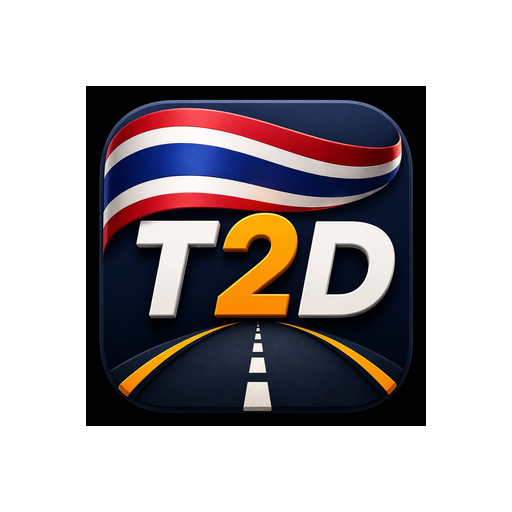
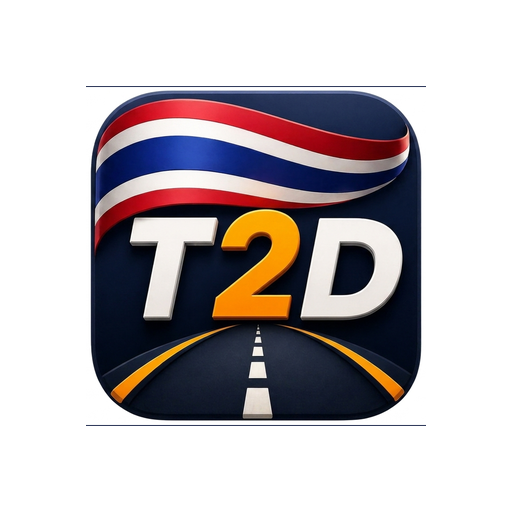
auto-commit for 22d3c5b3-3de2-48cb-8f58-ca5ac22997b4

Changed region(s): [[0.1562, 0.1562, 0.8438, 0.8438]]

diff --git a/backend/scripts/refine_app_icon.py b/backend/scripts/refine_app_icon.py
@@ -1,0 +1,60 @@
+"""Refine existing app icon: larger T2D, more spacing, more separation from flag."""
+import asyncio
+import base64
+import os
+import sys
+from pathlib import Path
+from dotenv import load_dotenv
+
+BACKEND_DIR = Path(__file__).resolve().parent.parent
+load_dotenv(BACKEND_DIR / ".env")
+
+from emergentintegrations.llm.chat import LlmChat, UserMessage, ImageContent  # noqa: E402
+
+MASTER = Path("/app/frontend/assets/icons/master_1024.png")
+OUT = Path("/app/frontend/assets/icons/master_1024_v2.png")
+BACKUP = Path("/app/frontend/assets/icons/master_1024_v1_backup.png")
+
+PROMPT = """Use this exact app icon as reference and make ONLY these specific small improvements,
+keeping everything else identical (same premium 3D style, same rounded-square shape, same dark navy
+blue gradient background, same Thai flag wave at top, same road with yellow edges and dashed center line,
+same orange color for "2", same white color for "T" and "D", same 3D beveled letter style):
+
+1. Make the "T2D" text noticeably LARGER (bolder and bigger, filling more of the center area).
+2. Move the "T2D" text slightly DOWNWARD, so there is a clearer gap between the Thai flag wave
+   at the top and the text below it. The flag should not overlap the letters.
+3. Add more horizontal SPACING between the letters T, 2, and D — so each letter is clearly
+   isolated and readable.
+4. Ensure the text is crisp and readable even at very small sizes (48×48 pixels) — strong contrast,
+   bold strokes, no thin parts.
+
+Do not change colors, style, background, flag design, or road design. Keep the icon composition
+and premium 3D aesthetic. Output 1024×1024 square PNG, no blur, sharp edges."""
+
+
+async def main():
+    api_key = os.getenv("EMERGENT_LLM_KEY") or "sk-emergent-b48A3D57008C8350c6"
+
+    ref_bytes = MASTER.read_bytes()
+    ref_b64 = base64.b64encode(ref_bytes).decode("utf-8")
+
+    chat = LlmChat(
+        api_key=api_key,
+        session_id="t2d-icon-refine-v2",
+        system_message="You are an expert mobile app icon designer. Edit the provided icon precisely as requested, preserving all other elements exactly.",
+    )
+    chat.with_model("gemini", "gemini-3.1-flash-image-preview").with_params(modalities=["image", "text"])
+
+    msg = UserMessage(text=PROMPT, file_contents=[ImageContent(ref_b64)])
+    text, images = await chat.send_message_multimodal_response(msg)
+    print(f"Text: {(text or '')[:300]}")
+    if not images:
+        print("ERROR: No image returned")
+        sys.exit(1)
+    img = images[0]
+    data = base64.b64decode(img["data"])
+    OUT.write_bytes(data)
+    print(f"Saved refined icon -> {OUT} ({len(data)//1024} KB, mime={img.get('mime_type')})")
+
+
+asyncio.run(main())

diff --git a/backend/scripts/crop_icon.py b/backend/scripts/crop_icon.py
@@ -1,0 +1,48 @@
+"""Auto-crop the icon out of its white background and save as 1024x1024 square."""
+import numpy as np
+from PIL import Image
+from pathlib import Path
+
+SRC = Path("/app/frontend/assets/icons/master_1024_v2.png")
+DST = Path("/app/frontend/assets/icons/master_1024.png")
+
+img = Image.open(SRC).convert("RGB")
+arr = np.array(img)
+print("Source:", arr.shape)
+
+# Find non-white pixels (anything darker than near-white)
+# White detection: R,G,B all > 240
+is_dark = np.any(arr < 240, axis=2)
+
+# Find bounding box
+rows = np.any(is_dark, axis=1)
+cols = np.any(is_dark, axis=0)
+if not rows.any() or not cols.any():
+    print("ERROR: no content detected")
+    raise SystemExit(1)
+
+r0, r1 = np.where(rows)[0][[0, -1]]
+c0, c1 = np.where(cols)[0][[0, -1]]
+print(f"Content bbox: rows {r0}-{r1}, cols {c0}-{c1}")
+
+# Crop with small margin
+margin = 10
+r0 = max(0, r0 - margin)
+c0 = max(0, c0 - margin)
+r1 = min(arr.shape[0] - 1, r1 + margin)
+c1 = min(arr.shape[1] - 1, c1 + margin)
+cropped = img.crop((c0, r0, c1 + 1, r1 + 1))
+print("Cropped:", cropped.size)
+
+# Make square by padding with dark navy (matching icon background)
+w, h = cropped.size
+side = max(w, h)
+# Use the icon's dark navy as fill
+navy = (13, 29, 68)  # matches the icon's dark navy
+sq = Image.new("RGB", (side, side), navy)
+sq.paste(cropped, ((side - w) // 2, (side - h) // 2))
+
+# Resize to 1024x1024
+final = sq.resize((1024, 1024), Image.LANCZOS)
+final.save(DST, "PNG", optimize=True)
+print(f"Saved master (1024x1024) -> {DST}")
